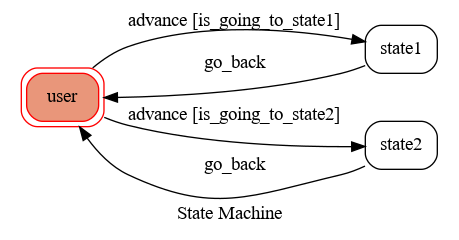
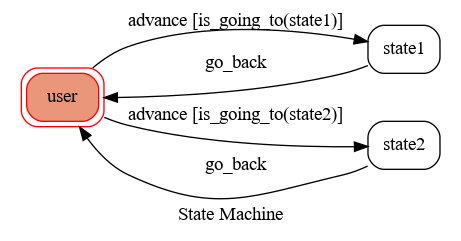
chore(fsm): deduplicate callback methods using transitions.EventData
This is a follow-up of 88d6cdaad19610295ffb68bb4491fa2ea0810a47.

* toc/fsm_utils.py:
    * add `import` for EventData
* toc/fsm.py:
    * extract methods defined with Python's builtin exec() as free functions
        * is_going_to_<name>(...) -> is_going_to(<name>, ...)
        * on_enter_<name>(...) -> on_enter(<name>, ...)
        * on_exit_<name>(...) -> on_exit(<name>, ...)
    * specify callback functions in _configs instead
    * TocModel:
        * exec():
            * adjust args to self.trigger() for working with EventData
* update img/show-fsm.png

diff --git a/toc/fsm.py b/toc/fsm.py
@@ -1,29 +1,55 @@
 import logging
 from functools import partial
-from inspect import cleandoc
 from typing import Any, Callable, List, Optional, Union
 
 import linebot.models as lm
 
 import parse
-from fsm_utils import GraphMachine, MachineCtxMngable
+from fsm_utils import EventData, GraphMachine, MachineCtxMngable
 
 _LOGGER = logging.getLogger(__name__)
 
+
+def is_going_to(state: str, ev: EventData) -> bool:
+    return ev.args[0] == state
+
+
+def on_enter(state: str, ev: EventData) -> None:
+    _LOGGER.info(f"I'm entering {state}")
+    ev.kwargs["reply"](lm.TextSendMessage(text=f"Trigger {state}"))
+    ev.model.go_back()
+
+
+def on_exit(state: str, ev: EventData) -> None:
+    _LOGGER.info(f"Leaving {state}")
+
+
 _configs = {
-    "states": ["user", "state1", "state2"],
+    "states": [
+        "user",
+        {
+            "name": "state1",
+            "on_enter": partial(on_enter, "state1"),
+            "on_exit": partial(on_exit, "state1"),
+        },
+        {
+            "name": "state2",
+            "on_enter": partial(on_enter, "state2"),
+            "on_exit": partial(on_exit, "state2"),
+        },
+    ],
     "transitions": [
         {
             "trigger": "advance",
             "source": "user",
             "dest": "state1",
-            "conditions": "is_going_to_state1",
+            "conditions": partial(is_going_to, "state1"),
         },
         {
             "trigger": "advance",
             "source": "user",
             "dest": "state2",
-            "conditions": "is_going_to_state2",
+            "conditions": partial(is_going_to, "state2"),
         },
         {"trigger": "go_back", "source": ["state1", "state2"],
             "dest": "user"},
@@ -31,6 +57,7 @@ _configs = {
     "initial": "user",
     "auto_transitions": False,
     "show_conditions": True,
+    "send_event": True,
 }
 toc_initial = _configs["initial"]
 toc_state_invalid = toc_initial
@@ -52,20 +79,6 @@ class TocModel(MachineCtxMngable):
                 initial = toc_state_invalid
         self._initial = initial
 
-    for k in [1, 2]:
-        exec(cleandoc(f"""
-        def is_going_to_state{k}(self, args: List[str], event: lm.Event, reply: Reply_t) -> bool:
-            return args[0] == "state{k}"
-
-        def on_enter_state{k}(self, args: List[str], event: lm.Event, reply: Reply_t) -> None:
-            _LOGGER.info("I'm entering state{k}")
-            reply(lm.TextSendMessage(text="Trigger state{k}"))
-            self.go_back()
-
-        def on_exit_state{k}(self) -> None:
-            _LOGGER.info("Leaving state{k}")
-        """))
-
     def exec(self, event: lm.Event, reply: Reply_t) -> bool:
         """ Parse `event` and try to trigger `self` with the parsing result.
             Return whether the parsed command is valid and available.
@@ -73,7 +86,7 @@ class TocModel(MachineCtxMngable):
         triggers = toc_machine.get_triggers(self.state)
         cmd, args = parse.parse(event.message.text)
         if cmd in triggers:
-            if self.trigger(cmd, args, event, reply):
+            if self.trigger(cmd, *args, event=event, reply=reply):
                 return True
         reply(lm.TextSendMessage(text="Not Entering any State"))
         return False

diff --git a/toc/fsm_utils.py b/toc/fsm_utils.py
@@ -15,7 +15,7 @@ from types import TracebackType
 from typing import (Callable, Collection, Dict, List, Literal, Optional,
                     Protocol, Sequence, Type, Union, cast)
 
-from transitions import Machine
+from transitions import EventData, Machine
 from transitions.extensions import GraphMachine, HierarchicalGraphMachine
 from transitions.extensions.nesting import NestedState
 
